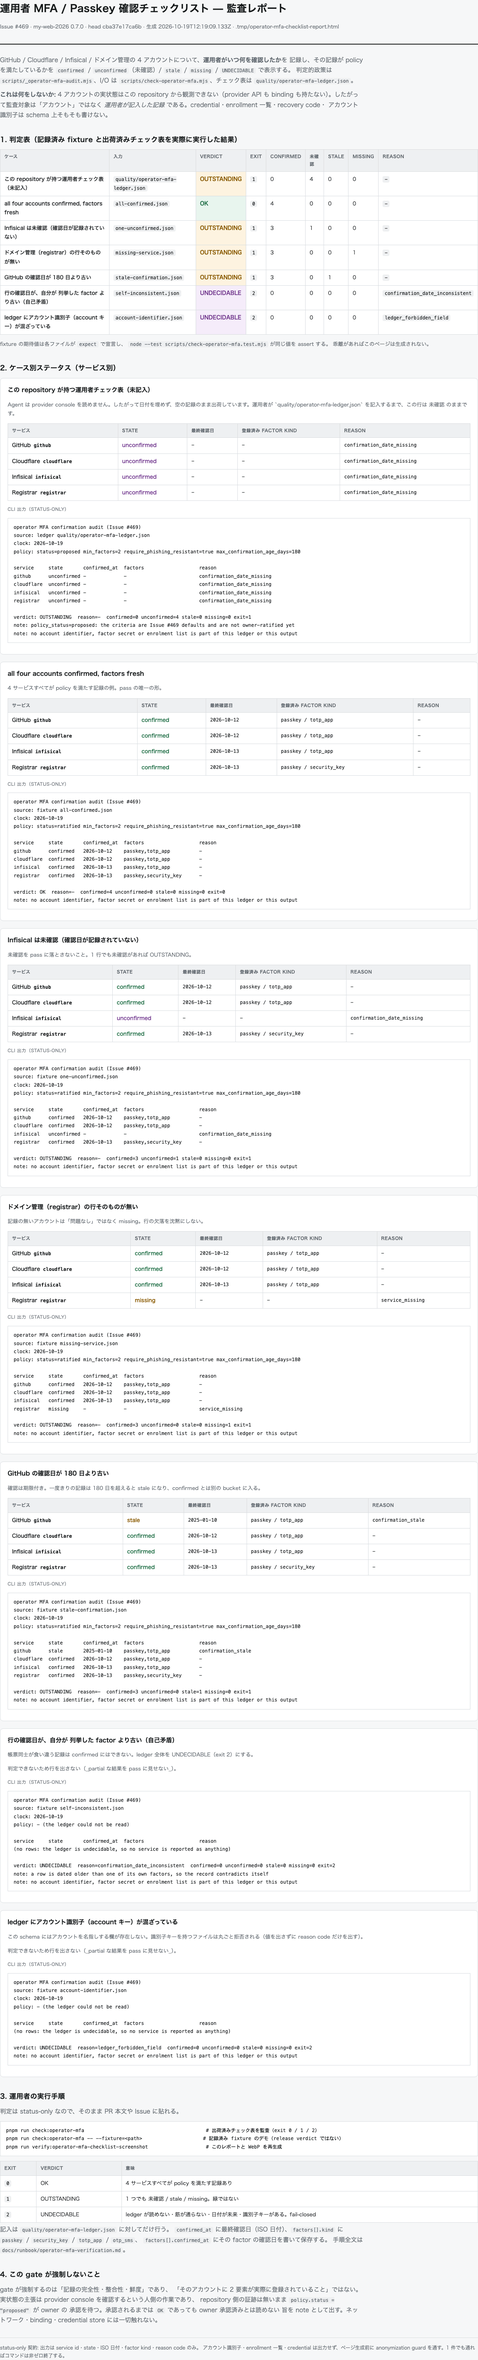
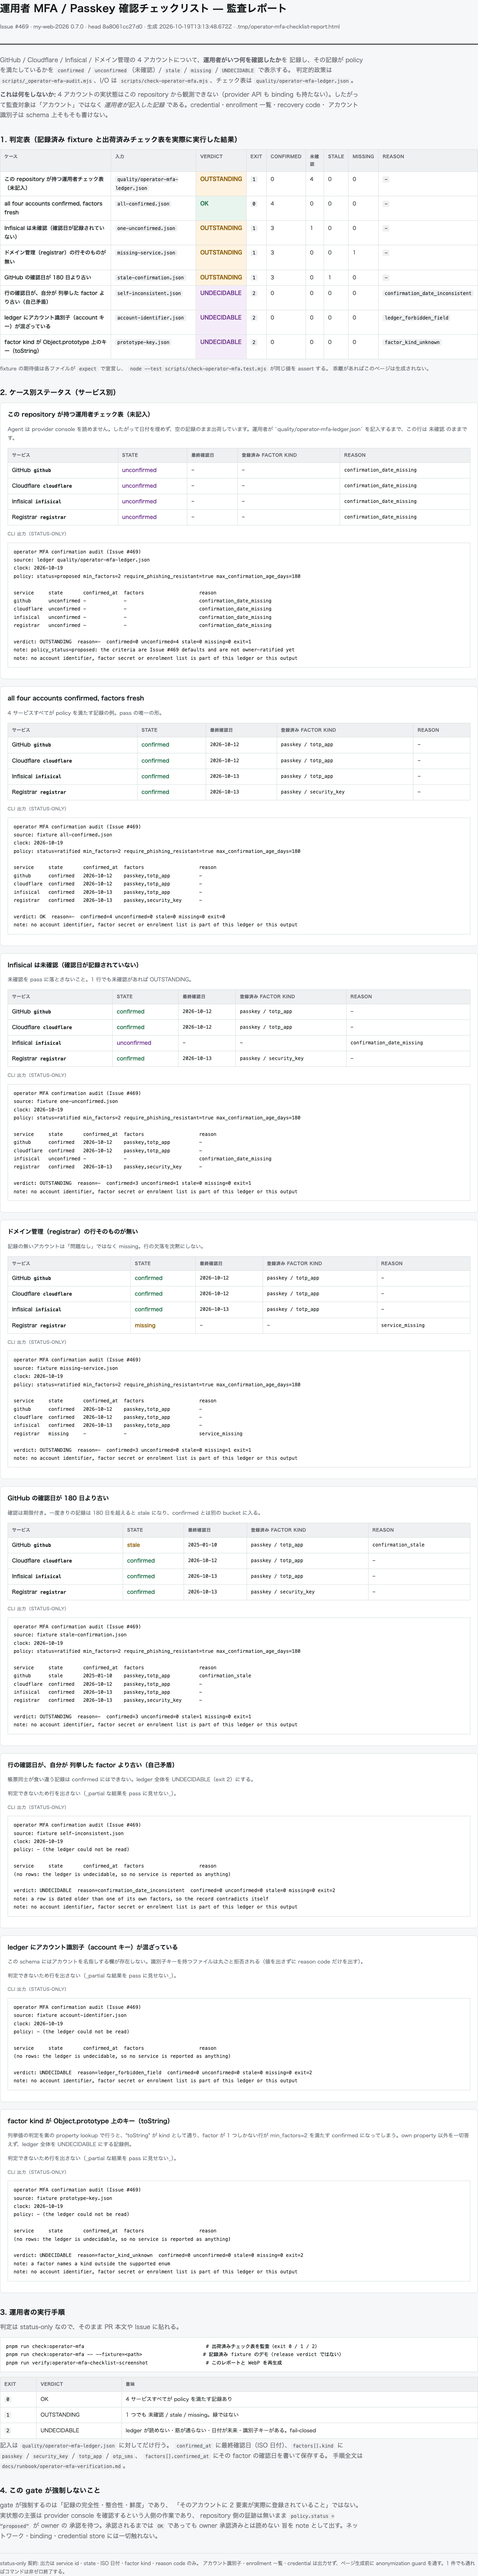
fix(security): refuse prototype keys in the MFA vocabularies and fail closed on the paths the gate never covered (#469)
- SERVICE / FACTOR_KIND / POLICY_STATUS become null-prototype vocabularies and
  membership is tested with Object.hasOwn, so a ledger row naming `toString`,
  `constructor` or `__proto__` is service_unknown / factor_kind_unknown instead
  of an inherited property that satisfied min_factors
- add the fail-closed fixture quality/fixtures/operator-mfa/prototype-key.json
  and the matching fail-closed matrix cases
- require `now` on a recorded fixture (fixture_clock_missing) so a recorded
  verdict cannot drift with the wall clock
- refuse an unreadable ledger with the same value-free branch as its siblings
  instead of letting formatAuditReport throw a stack trace
- runbook / profile.yaml / artefact README now say what the code does: an
  omitted key is a schema failure, prototype keys are unknown members, and the
  factor-count / freshness / release-checklist questions stay owner decisions

diff --git a/docs/runbook/operator-mfa-verification.md b/docs/runbook/operator-mfa-verification.md
@@ -101,6 +101,18 @@ provider console を開いて確認し、**リポジトリの working tree** で
 > ratify されていない。`policy.status` を `ratified` に変えるのは
 > owner の明示的な決定としてのみ行う。
 
+### 5.1 この gate が「数えている」ことの限界（owner 待ち）
+
+以下 2 つは**コードの現状**であり、正しさの合意には owner の決定が要る。
+この PR では決めずに、現状をそのまま記録する。
+
+| 論点 | 現状の挙動 | なぜ決めないか |
+| --- | --- | --- |
+| 同じ `kind` を 2 回復記した行 | エントリ数で数えるので、`passkey` × 2 で `min_factors: 2` を満たす | 「片方の factor だけを再確認した」可能性と「別々の 2 本登録」を schema では区別できない。distinct 化 / 重複拒否 / identity-free ordinal のどれを採るかは policy 変更 |
+| 鮮度窓の起点 | 行の `confirmed_at` だけを age させる（factor の日付が古いままでも、行が今日なら `confirmed`） | 「行の日付 = その日に運用者が再確認した日」という記録モデルと、`max_confirmation_age_days` のどちらを主張するかが policy 論点 |
+
+決定したら、この節を実装と fixture の両方に反映する。
+
 ## 6. 実行と exit code
 
 ```bash
@@ -139,21 +151,28 @@ ledger **全体**が `UNDECIDABLE` になる状態（行を一切出さない）
 | `ledger_forbidden_field` | 識別子キーが混入（値を出さない） |
 | `unknown_field` | schema に無いキーがある |
 | `policy_invalid` | policy ブロックが不正 |
-| `service_unknown` / `service_duplicated` | 4 サービス以外 / 重複 |
-| `factor_kind_unknown` | factor kind が enum 外 |
-| `confirmation_date_invalid` | ISO 暦日でない（`2026-02-30` など） |
+| `service_unknown` / `service_duplicated` | 4 サービス以外 / 重複。`"constructor"` / `"toString"` / `"__proto__"` などの `Object.prototype` 上のキーも **ここに来る**（列挙値は own property のみが構成要素） |
+| `factor_kind_unknown` | factor kind が enum 外。同様に `Object.prototype` 上のキーもここに来る（factor が 1 つしかない行を 2 つ目と数えて `confirmed` にしない） |
+| `confirmation_date_invalid` | ISO 暦日でない（`2026-02-30` など）。**キーを丸ごと落とした**行もここに来る |
 | `confirmation_date_in_future` | 未来日 |
 | `confirmation_date_inconsistent` | 行の日付が自分の factor より古い |
 | `clock_invalid` | 時計が読めない |
+| `fixture_clock_missing` | 記録済み fixture が `now` を宣言していない（比較用に使う時計が無いので、その verdict は暦とともに流れる） |
 
 行単位（`OUTSTANDING`）:
 
 | state | reason | 意味 |
 | --- | --- | --- |
-| `unconfirmed` | `confirmation_date_missing` | 確認日が書かれていない（**出荷時がこれ**） |
+| `unconfirmed` | `confirmation_date_missing` | 確認日が書かれていない（**出荷時がこれ**）。キーは存在して値が `null` のとき |
 | `unconfirmed` | `factors_missing` / `factors_below_minimum` / `phishing_resistant_missing` / `factor_kind_missing` / `factor_date_missing` | policy を満たさない登録 |
 | `stale` | `confirmation_stale` | policy の鮮度窓を超過 |
 | `missing` | `service_missing` | 4 サービスのどれかの行が無い |
+
+> **キーの省略は「未記入」とは別**。行単位の `confirmation_date_missing` /
+> `factors_missing` は**キーを書いて値が `null` / `[]`** のときに現れる。
+> キーごと落とした行は schema 違反として ledger 全体が `UNDECIDABLE`
+> （`confirmation_date_invalid` / `ledger_shape_invalid`、exit 2）になる。
+> どちらも緑にはならないが、運用者の入力ミスの見え方が違う。
 
 ## 8. CI 上の位置づけ
 
@@ -167,6 +186,13 @@ ledger **全体**が `UNDECIDABLE` になる状態（行を一切出さない）
   GitHub Actions が provider console を読むべきではない）。
 - fail-closed な operator gate として、`docs/release.md` の sprint cycle
   で人が実行する運用に置くのが妥当。
+
+> **owner 待ちの判断**: 現時点で `docs/release.md` の step 9 には
+> `r2:media:audit` しか書かれておらず、本 gate はまだ release checklist に
+> 載っていない（`quality/profile.yaml#operator_mfa_audit.trigger` は「MFA 確認の
+> サイクル、および release PR を開く前」と宣言しているが、これは運用上の推奨
+> であり repository 側の強制点ではない）。step 9 の R2 audit の隣に追加する
+> かは owner の決定。決定までは、本 gate に**強制点は無い**と読むこと。
 
 Decision は `quality/profile.yaml`、証跡画像は
 [`docs/verification/security/operator-mfa-checklist.webp`](../verification/security/operator-mfa-checklist.webp)

diff --git a/docs/verification/security/README.md b/docs/verification/security/README.md
@@ -527,11 +527,13 @@ credential-shaped string is published.
 
 The operator MFA / Passkey confirmation gate's own report, rendered in a
 browser. The top table runs the shipped operator ledger
-(`quality/operator-mfa-ledger.json`) and six recorded fixtures through the
+(`quality/operator-mfa-ledger.json`) and seven recorded fixtures through the
 same seam the CLI uses: one `confirmed`, one 未確認 row, a missing service, a
-stale confirmation, a record that contradicts itself and a ledger carrying an
-account identifier. Each row shows the verdict, the exit code and the four
-state counts, so 未確認 can never be read as a green tick.
+stale confirmation, a record that contradicts itself, a ledger carrying an
+account identifier, and a factor kind taken off `Object.prototype`. Each row
+shows the verdict, the exit code and the four state counts, so 未確認 can never
+be read as a green tick — and a prototype key cannot be counted as a second
+enrolled factor.
 
 The shipped ledger is shown **unconfirmed on purpose**: no agent can read a
 GitHub / Cloudflare / Infisical / registrar console, and a confirmation date
